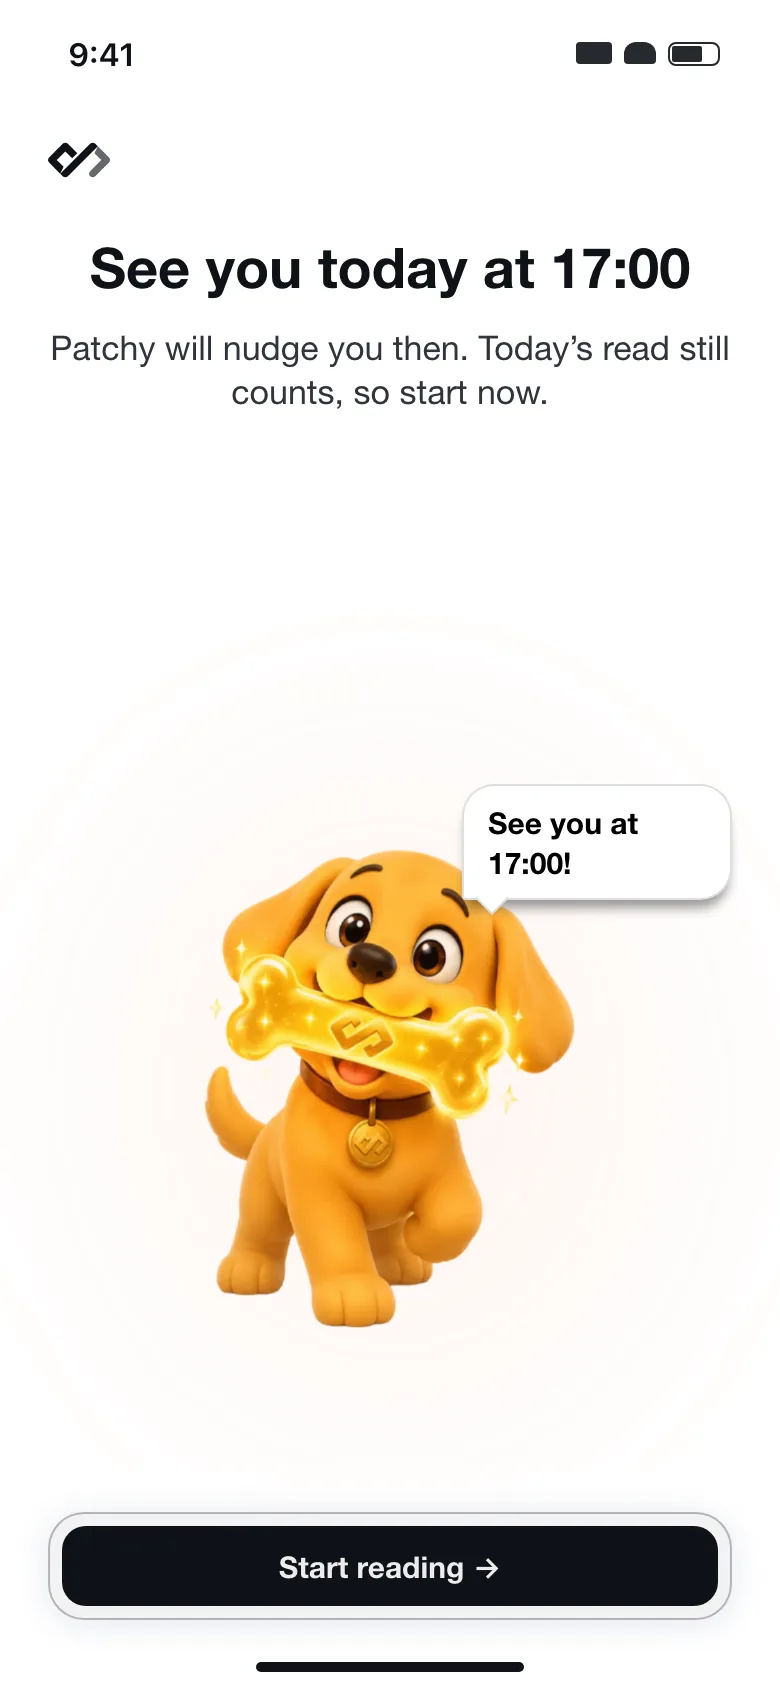
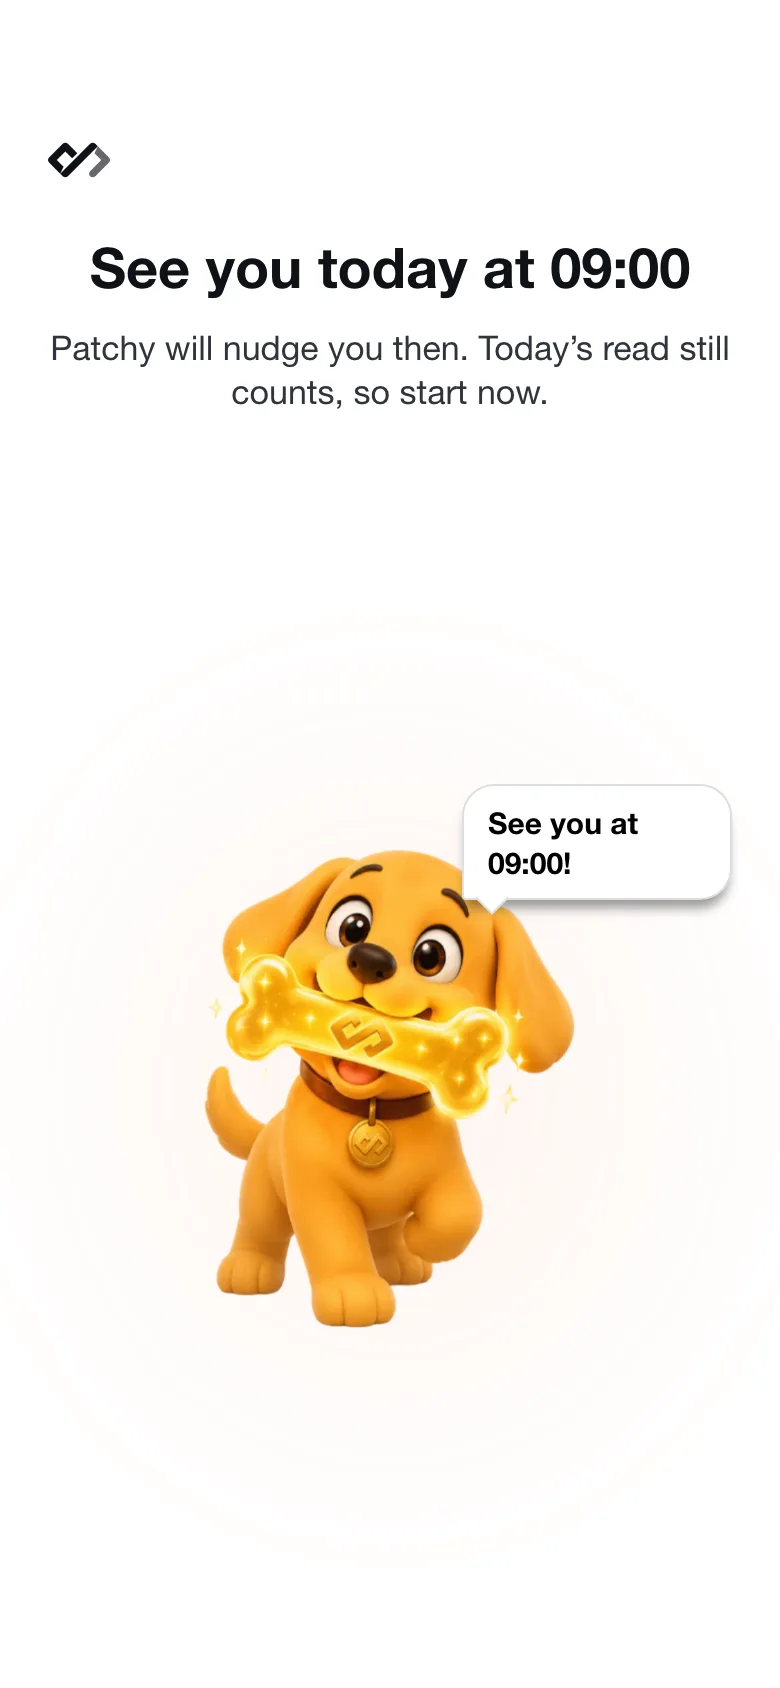
feat(onboarding): Feed Patchy's endings move to the feed by themselves
The reminder set, skipped and denied screens drop the "Start reading"
button and hand over to the feed 0.2s after the answer. Without a
reminder to offer, the fed celebration plays out first. The feed is
portaled above the step so the headline and bubble cannot paint over it.
The before flow keeps its button, as production does today.

diff --git a/packages/storybook/stories/feed-patchy/shell.tsx b/packages/storybook/stories/feed-patchy/shell.tsx
@@ -1,5 +1,6 @@
 import type { CSSProperties, ReactElement, ReactNode } from 'react';
 import React, { useEffect, useMemo, useRef, useState } from 'react';
+import { createPortal } from 'react-dom';
 import classNames from 'classnames';
 import { FunnelProgressContext } from '@dailydotdev/shared/src/features/onboarding/shared/FunnelStepDots';
 import {
@@ -88,7 +89,13 @@ const motionCss = `
 .cs-ghost img { animation: csGhost 1.6s cubic-bezier(0.45, 0, 0.2, 1) 2; }
 /* The funnel's CTA rail, held back while a screen plays its opening. */
 .cs-phone .sticky.bottom-0 { transition: opacity 600ms ease-out; }
-.cs-intro .sticky.bottom-0 { opacity: 0; pointer-events: none; }
+.cs-intro .sticky.bottom-0, .cs-no-cta .sticky.bottom-0 { opacity: 0; pointer-events: none; }
+.cs-no-cta .sticky.bottom-0 { transition-duration: 150ms; }
+@keyframes csFeedIn {
+  from { opacity: 0; }
+  to { opacity: 1; }
+}
+.cs-feed-in { animation: csFeedIn 500ms ease-out both; }
 .cs-bubble { animation: csBubble 320ms cubic-bezier(0.16, 1, 0.3, 1) both; transform-origin: 0 100%; }
 .cs-swallow img { animation: csSwallow 220ms ease-in forwards; }
 @keyframes csDigit {
@@ -110,7 +117,7 @@ const motionCss = `
 /* No iOS long-press image menu: holding the bone would open it and end the drag. */
 .cs-touch, .cs-touch img { touch-action: none; user-select: none; -webkit-user-select: none; -webkit-touch-callout: none; }
 @media (prefers-reduced-motion: reduce) {
-  .cs-rise, .cs-halo, .cs-bubble, .cs-digit, .cs-sheet { animation-duration: 1ms; }
+  .cs-rise, .cs-halo, .cs-bubble, .cs-digit, .cs-sheet, .cs-feed-in { animation-duration: 1ms; }
   .cs-float img, .cs-ghost img, .cs-confetti { animation: none; }
   .cs-confetti { opacity: 0; }
   .cs-press { transition: none; }
@@ -225,6 +232,8 @@ export interface PhoneProps {
   hasSkip?: boolean;
   /** Holds the CTA rail back while a screen plays its opening. */
   isIntro?: boolean;
+  /** False on an ending that moves on by itself: the CTA rail fades away. */
+  hasCta?: boolean;
   position?: FunnelPosition;
   onCta?: () => void;
   skipLabel?: string;
@@ -238,15 +247,18 @@ export interface PhoneProps {
  */
 export const Screen = ({
   isIntro = false,
+  hasCta = true,
   children,
 }: {
   isIntro?: boolean;
+  hasCta?: boolean;
   children: ReactNode;
 }): ReactElement => (
   <div
     className={classNames(
       'cs-phone flex min-h-dvh flex-col bg-background-default text-text-primary',
       isIntro && 'cs-intro',
+      !hasCta && 'cs-no-cta',
     )}
   >
     {children}
@@ -262,6 +274,7 @@ export const Phone = ({
   isDone,
   hasSkip = true,
   isIntro = false,
+  hasCta = true,
   position = AFTER_POSITION,
   onCta,
   skipLabel = 'Not now',
@@ -280,7 +293,7 @@ export const Phone = ({
   return (
     <FeatureOverrides values={{ [featureOnboardingChrome.id]: chrome }}>
       <SettingsContext.Provider value={settings}>
-        <Screen isIntro={isIntro}>
+        <Screen isIntro={isIntro} hasCta={hasCta}>
           {/* Same tree as FunnelStepper: section, background, progress, the
             width-capped column, then the step's own flex column. */}
           <section className="flex min-h-dvh flex-col">
@@ -490,3 +503,37 @@ export const DeviceFrame = ({
     </div>
   );
 };
+
+/**
+ * Where an ending hands over to: the feed, drawn as placeholder cards. It is
+ * the next screen in production, not part of this design.
+ */
+// Portaled so it covers the whole step, headline and bubbles included,
+// rather than stacking inside the step's own layers.
+export const FeedStandIn = (): ReactElement =>
+  createPortal(
+    <div className="cs-feed-in fixed inset-0 z-max flex flex-col gap-4 bg-background-default px-4 pt-6">
+      <div className="flex items-center justify-between">
+        <span className="h-6 w-24 rounded-8 bg-surface-float" />
+        <span className="size-8 rounded-full bg-surface-float" />
+      </div>
+      <span className="w-fit rounded-8 bg-surface-float px-3 py-1 text-text-tertiary typo-footnote">
+        Your feed
+      </span>
+      {[0, 1, 2].map((card) => (
+        <div
+          key={card}
+          className="flex flex-col gap-3 rounded-16 border border-border-subtlest-tertiary p-4"
+        >
+          <div className="flex items-center gap-2">
+            <span className="size-6 rounded-full bg-surface-float" />
+            <span className="h-3 w-24 rounded-6 bg-surface-float" />
+          </div>
+          <span className="h-4 w-full rounded-6 bg-surface-float" />
+          <span className="h-4 w-3/4 rounded-6 bg-surface-float" />
+          <span className="h-28 w-full rounded-12 bg-surface-float" />
+        </div>
+      ))}
+    </div>,
+    document.body,
+  );

diff --git a/packages/storybook/stories/feed-patchy/FeedPatchy.stories.tsx b/packages/storybook/stories/feed-patchy/FeedPatchy.stories.tsx
@@ -121,8 +121,8 @@ const PrototypePage = ({ theme }: { theme?: string }): ReactElement => {
           A short intro, then drag the Knowledge Bone to Patchy. Once he has it
           the celebration plays, he steps up, and the reading reminder rises
           underneath: scrub the hour ruler or tap Morning, Lunch or Evening.
-          “I’ll do it later” skips it. This replaces the separate
-          reading-reminder step.
+          “I’ll do it later” skips it. Either way the screen moves on to the
+          feed by itself. This replaces the separate reading-reminder step.
         </p>
         <p>
           Each device is the production funnel at that device’s real viewport.
@@ -422,14 +422,14 @@ const caseGroups: Array<{ title: string; note: string; cases: Case[] }> = [
         title: '“I’ll do it later”',
         check: 'Tap the skip at the top right.',
         expect:
-          '“Day 1 starts now”, a line about settings, no bubble, and “Start reading →”.',
+          '“Day 1 starts now”, a line about settings and no bubble. No button: after 0.2s it moves to the feed.',
         args: 'start:reminder',
       },
       {
         title: '“Remind me” answers once',
         check: 'Double-tap “Remind me” quickly.',
         expect:
-          'One confirmation. The button becomes “Start reading →” and the skip goes away.',
+          'One confirmation. The button and the skip go away, and after 0.2s it moves to the feed.',
         args: 'start:reminder',
       },
     ],
@@ -520,6 +520,12 @@ const caseGroups: Array<{ title: string; note: string; cases: Case[] }> = [
     note: 'The whole journey, and the endings that depend on the phone or the user’s answers.',
     cases: [
       {
+        title: 'Moves to the feed by itself',
+        check: 'Pick a time, tap “Remind me”, then wait.',
+        expect: 'No “Start reading” button. After 0.2s the feed fades in.',
+        args: 'start:reminder',
+      },
+      {
         title: 'The whole flow',
         check: 'Watch the intro, feed Patchy, set a time.',
         expect: 'Intro, feeding, celebration, reminder, then the confirmation.',
@@ -543,14 +549,14 @@ const caseGroups: Array<{ title: string; note: string; cases: Case[] }> = [
         check:
           'Tap “Remind me”; the system prompt is answered with Don’t Allow.',
         expect:
-          'New: “Notifications are off” and how to turn them on, with no “See you” bubble.',
+          'New: “Notifications are off” and how to turn them on, with no “See you” bubble. Then the feed.',
         args: 'start:reminder;notifications:denied',
       },
       {
         title: 'Notifications unavailable',
         check: 'Feed Patchy where push is not supported.',
         expect:
-          'New: no reminder is offered. The screen ends on “You’re committed” and “Start reading →”, as production skips its reminder step there.',
+          'New: no reminder is offered, as production skips its reminder step there. The screen ends on “You’re committed” and moves to the feed.',
         args: 'start:ready;notifications:unsupported',
       },
       {
@@ -641,7 +647,13 @@ const ReminderThenPatchy = (): ReactElement => {
   const [isReminder, setIsReminder] = useState(true);
 
   if (!isReminder) {
-    return <FeedPatchy position={BEFORE_POSITION} onCommit={() => undefined} />;
+    return (
+      <FeedPatchy
+        position={BEFORE_POSITION}
+        autoAdvance={false}
+        onCommit={() => undefined}
+      />
+    );
   }
 
   return (

diff --git a/packages/storybook/stories/feed-patchy/FeedPatchy.tsx b/packages/storybook/stories/feed-patchy/FeedPatchy.tsx
@@ -9,7 +9,7 @@ import type { ScreenProps } from './shell';
 import { funnelStepRail } from '@dailydotdev/shared/src/features/onboarding/shared/FunnelStepCtaWrapper';
 import { onboardingHeadlineClasses } from '@dailydotdev/shared/src/components/onboarding/common';
 import type { FunnelPosition } from './shell';
-import { AFTER_POSITION, Confetti, Phone } from './shell';
+import { AFTER_POSITION, Confetti, FeedStandIn, Phone } from './shell';
 import { formatHour, ReminderPicker } from './reminder';
 
 // Cut from the designer's transparent character sheet.
@@ -48,6 +48,9 @@ interface FeedPatchyProps extends ScreenProps {
   nowHour?: number;
   /** Where the screen sits in the onboarding funnel, for the step dots. */
   position?: FunnelPosition;
+  /** Endings move on to the feed by themselves instead of waiting on a CTA.
+   * Off for the before flow, which shows today's screen and its button. */
+  autoAdvance?: boolean;
 }
 
 /** The opening: two lines on a blank screen, then the ask with the bone. */
@@ -94,6 +97,8 @@ enum FeedPhase {
   Set = 'set',
 }
 
+/** How long an ending stays up before it hands over to the feed. */
+const ENDING_HOLD_MS = 200;
 /** How long the fed moment plays before the reminder ask arrives. */
 const FED_HOLD_MS = 1900;
 const DEFAULT_HOUR = 9;
@@ -129,6 +134,7 @@ export const FeedPatchy = ({
   isNotificationDenied = false,
   nowHour,
   position = AFTER_POSITION,
+  autoAdvance = true,
 }: FeedPatchyProps): ReactElement => {
   // Reduced motion skips the 7s opening and goes straight to the ask.
   const [hasIntro] = useState(
@@ -264,6 +270,26 @@ export const FeedPatchy = ({
   }, [isAsking, isCompact]);
 
   const isDogStepping = isAsking && remindScale >= MIN_REMIND_SCALE;
+
+  // The last screen of the step: the reminder answered or skipped, or, with
+  // no reminder to offer, Patchy fed. It moves on to the feed by itself.
+  const isEnding = withReminder
+    ? phase === FeedPhase.Set
+    : phase === FeedPhase.Fed;
+  const isAdvancing = autoAdvance && isEnding;
+  const [isInFeed, setIsInFeed] = useState(false);
+
+  useEffect(() => {
+    if (!isAdvancing) {
+      return undefined;
+    }
+    // Without a reminder, the celebration is the ending, so it plays first.
+    const timeout = window.setTimeout(
+      () => setIsInFeed(true),
+      withReminder ? ENDING_HOLD_MS : FED_HOLD_MS + ENDING_HOLD_MS,
+    );
+    return () => window.clearTimeout(timeout);
+  }, [isAdvancing, withReminder]);
 
   // A time still ahead today nudges today; otherwise the first is tomorrow.
   const [currentHour] = useState(() => nowHour ?? new Date().getHours());
@@ -628,6 +654,7 @@ export const FeedPatchy = ({
         setPhase(FeedPhase.Set);
       }}
       isIntro={isIntro}
+      hasCta={!isAdvancing}
       position={position}
     >
       {/* The intro's own layer: the screen-centred lines, plus invisible
@@ -849,6 +876,7 @@ export const FeedPatchy = ({
             />
           </div>
         )}
+        {isInFeed && <FeedStandIn />}
         {withReminder &&
           phase === FeedPhase.Set &&
           !isReminderSkipped &&

diff --git a/packages/storybook/stories/feed-patchy/cases.tsx b/packages/storybook/stories/feed-patchy/cases.tsx
@@ -94,13 +94,13 @@ export const caseStates = [
     file: '14-reminder-set',
     label: 'Reminder set',
     at: 'On “Remind me”',
-    motion: 'Card fades 0.3s · Patchy returns 0.9s · bubble at +0.45s, 0.32s',
+    motion: 'No button · the feed fades in at +0.2s, over the card fading out',
   },
   {
     file: '15-reminder-skipped',
     label: 'Reminder skipped',
     at: 'On “I’ll do it later”',
-    motion: 'Card fades 0.3s · Patchy returns 0.9s · no bubble',
+    motion: 'No button · the feed fades in at +0.2s, over the card fading out',
   },
 ];
 
